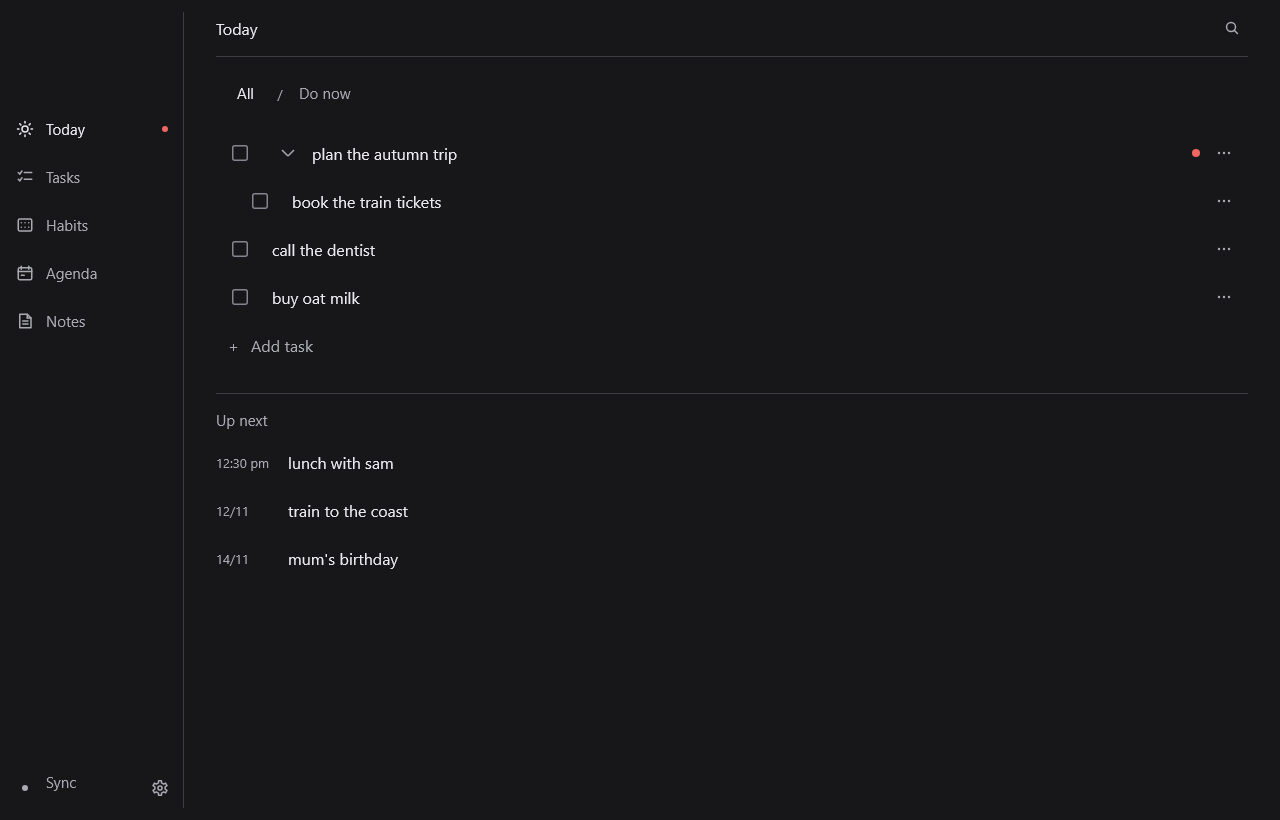
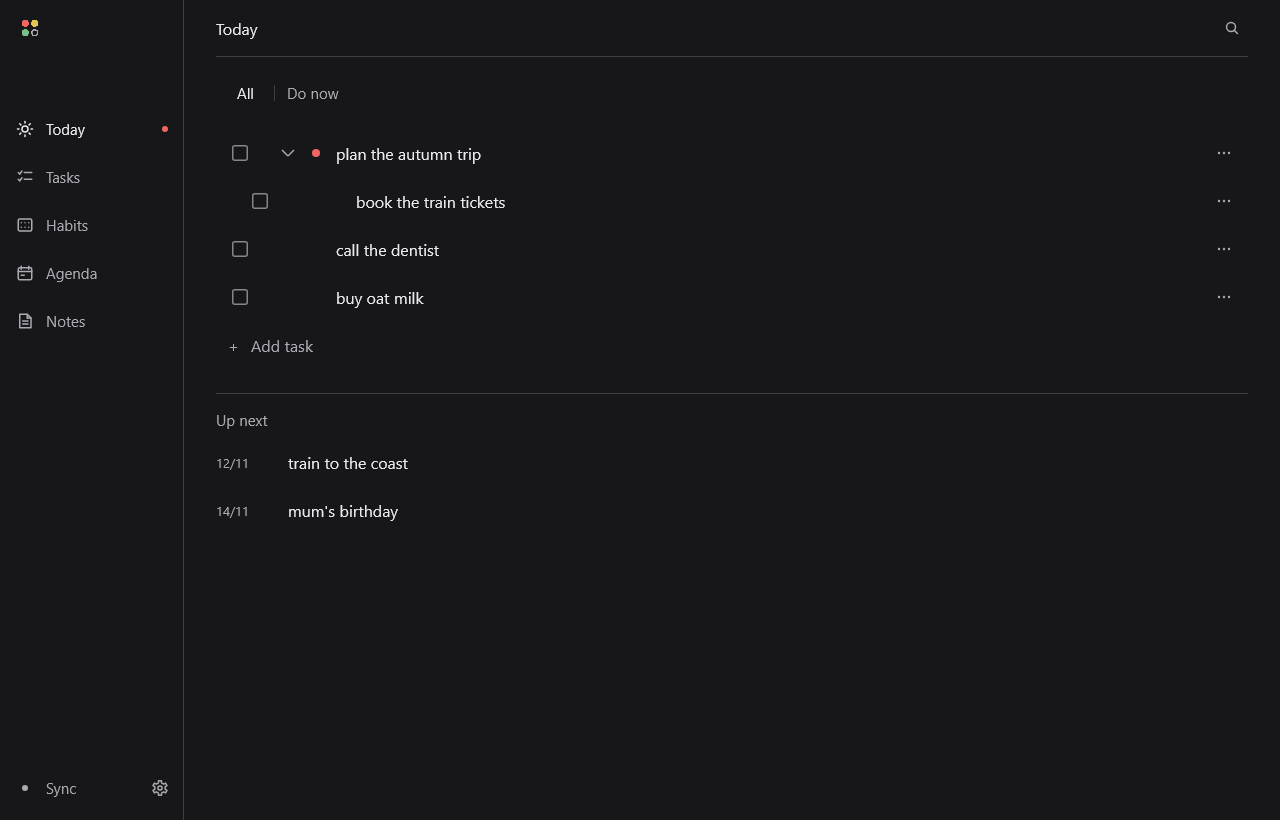
Restore P24 shell details and align sidebar footer controls

diff --git a/android/desktop/src/main/kotlin/dev/fourthbreakfast/planner/desktop/DesktopWorkspace.kt b/android/desktop/src/main/kotlin/dev/fourthbreakfast/planner/desktop/DesktopWorkspace.kt
@@ -1,6 +1,7 @@
 package dev.fourthbreakfast.planner.desktop
 
 import androidx.compose.foundation.Canvas
+import androidx.compose.foundation.Image
 import androidx.compose.foundation.background
 import androidx.compose.foundation.clickable
 import androidx.compose.foundation.layout.Box
@@ -85,10 +86,13 @@ internal fun DesktopWorkspace(
     var panelEnd by remember { mutableStateOf(Float.POSITIVE_INFINITY) }
     var origin by remember { mutableStateOf(0f) }
     Row(Modifier.fillMaxSize().onGloballyPositioned { origin = it.positionInRoot().y }) {
-        BoxWithConstraints(Modifier.width(184.dp).fillMaxHeight()) {
+        BoxWithConstraints(Modifier.width(Desk.sidebarWidth).fillMaxHeight()) {
             val header = 56.dp
             val groupHeight = 240.dp
             val top = navigationGroupTop(header.value, with(density) { (panelEnd - origin).toDp() }.value, groupHeight.value, maxHeight.value).dp
+            Box(Modifier.fillMaxWidth().height(header).padding(start = 16.dp), contentAlignment = Alignment.CenterStart) {
+                Image(remember { appIconPainter() }, contentDescription = "Planner", modifier = Modifier.size(28.dp))
+            }
             Column(Modifier.offset(y = top).fillMaxWidth().padding(horizontal = 16.dp)) {
                 Tab.entries.forEach { tab ->
                     Row(
@@ -126,14 +130,14 @@ internal fun DesktopWorkspace(
                 Box(Modifier.width(18.dp), contentAlignment = Alignment.Center) {
                     Canvas(Modifier.size(6.dp)) { drawCircle(statusColor) }
                 }
-                Text(
-                    "Sync",
-                    Modifier.weight(1f).padding(start = 12.dp).heightIn(min = 32.dp).clickable {
+                Box(
+                    Modifier.weight(1f).heightIn(min = 32.dp).padding(start = 12.dp).clickable {
                         if (sync != null) scope.launch { sync.syncNow() } else state.panel = Panel.Settings
                     },
-                    style = MaterialTheme.typography.bodyMedium,
-                    color = colors.onSurfaceVariant,
-                )
+                    contentAlignment = Alignment.CenterStart,
+                ) {
+                    Text("Sync", style = MaterialTheme.typography.bodyMedium, color = colors.onSurfaceVariant)
+                }
                 Box(
                     Modifier.width(32.dp).height(32.dp).semantics {
                         contentDescription = "Settings"
@@ -143,7 +147,7 @@ internal fun DesktopWorkspace(
                     Canvas(Modifier.size(16.dp)) { cog(colors.onSurfaceVariant) }
                 }
             }
-            Box(Modifier.align(Alignment.CenterEnd).padding(vertical = 12.dp).width(1.dp).fillMaxHeight().background(colors.outlineVariant))
+            Box(Modifier.align(Alignment.CenterEnd).width(1.dp).fillMaxHeight().background(colors.outlineVariant))
         }
         Column(Modifier.weight(1f).fillMaxHeight().padding(horizontal = 16.dp)) {
             Row(Modifier.fillMaxWidth().height(56.dp).padding(horizontal = 16.dp), verticalAlignment = Alignment.CenterVertically) {

diff --git a/android/desktop/src/main/kotlin/dev/fourthbreakfast/planner/desktop/TitleBar.kt b/android/desktop/src/main/kotlin/dev/fourthbreakfast/planner/desktop/TitleBar.kt
@@ -1,7 +1,6 @@
 package dev.fourthbreakfast.planner.desktop
 
 import androidx.compose.foundation.Canvas
-import androidx.compose.foundation.Image
 import androidx.compose.foundation.background
 import androidx.compose.foundation.clickable
 import androidx.compose.foundation.gestures.detectDragGestures
@@ -15,15 +14,14 @@ import androidx.compose.foundation.layout.fillMaxHeight
 import androidx.compose.foundation.layout.fillMaxSize
 import androidx.compose.foundation.layout.fillMaxWidth
 import androidx.compose.foundation.layout.height
-import androidx.compose.foundation.layout.padding
 import androidx.compose.foundation.layout.size
 import androidx.compose.foundation.layout.width
 import androidx.compose.foundation.window.WindowDraggableArea
 import androidx.compose.material3.MaterialTheme
 import androidx.compose.runtime.Composable
-import androidx.compose.runtime.remember
 import androidx.compose.ui.Alignment
 import androidx.compose.ui.Modifier
+import androidx.compose.ui.draw.drawBehind
 import androidx.compose.ui.geometry.Offset
 import androidx.compose.ui.geometry.Size
 import androidx.compose.ui.graphics.Color
@@ -55,17 +53,19 @@ import org.jetbrains.compose.resources.stringResource
 private val closeRed = Color(0xFFC42B1C)
 
 /**
- * The top of the window, drawn by the app: its mark and name at the left, a place to drag the window by (a double click
+ * The top of the window, drawn by the app: a place to drag the window by (a double click
  * maximizes), [extras] such as the settings, and the window's own minimize, maximize and close at the right, as Windows 11
  * lays them.
  */
 @Composable
 fun WindowScope.TitleBar(state: WindowState, frame: NativeFrame, onClose: () -> Unit, extras: @Composable RowScope.() -> Unit = {}) {
     val colors = MaterialTheme.colorScheme
-    val icon = remember { appIconPainter() }
     Row(
         verticalAlignment = Alignment.CenterVertically,
-        modifier = Modifier.fillMaxWidth().height(Desk.titleBar).background(colors.background),
+        modifier = Modifier.fillMaxWidth().height(Desk.titleBar).background(colors.background).drawBehind {
+            val x = Desk.sidebarWidth.toPx() - .5.dp.toPx()
+            drawLine(colors.outlineVariant, Offset(x, 0f), Offset(x, size.height), 1.dp.toPx())
+        },
     ) {
         WindowDraggableArea(
             Modifier
@@ -76,9 +76,7 @@ fun WindowScope.TitleBar(state: WindowState, frame: NativeFrame, onClose: () -> 
                     detectTapGestures(onDoubleTap = { state.toggleMaximized() })
                 },
         ) {
-            Row(verticalAlignment = Alignment.CenterVertically, modifier = Modifier.fillMaxSize().padding(start = Space.gutter)) {
-                Image(icon, contentDescription = null, modifier = Modifier.size(Space.x5))
-            }
+            Box(Modifier.fillMaxSize())
         }
         extras()
         WindowButton(stringResource(Res.string.window_minimize), hoverColor = colors.secondaryContainer, onClick = { state.isMinimized = true }) { ink ->

diff --git a/android/shared/src/commonMain/kotlin/dev/fourthbreakfast/planner/today/TodayWorkspace.kt b/android/shared/src/commonMain/kotlin/dev/fourthbreakfast/planner/today/TodayWorkspace.kt
@@ -25,6 +25,7 @@ import androidx.compose.material3.HorizontalDivider
 import androidx.compose.material3.MaterialTheme
 import androidx.compose.material3.OutlinedTextField
 import androidx.compose.material3.Text
+import androidx.compose.material3.VerticalDivider
 import androidx.compose.runtime.Composable
 import androidx.compose.runtime.DisposableEffect
 import androidx.compose.runtime.LaunchedEffect
@@ -126,7 +127,7 @@ fun TodayWorkspace(
                 androidx.compose.material3.TextButton(onClick = { shortlist = false }, modifier = Modifier.semantics { selected = !shortlist }) {
                     Text("All", style = MaterialTheme.typography.bodyMedium, color = if (!shortlist) colors.onBackground else colors.onSurfaceVariant)
                 }
-                Text(" / ", color = colors.onSurfaceVariant, style = MaterialTheme.typography.bodySmall)
+                VerticalDivider(Modifier.height(16.dp), color = colors.outlineVariant)
                 androidx.compose.material3.TextButton(onClick = { shortlist = true }, modifier = Modifier.semantics { selected = shortlist }) {
                     Text("Do now", style = MaterialTheme.typography.bodyMedium, color = if (shortlist) colors.onBackground else colors.onSurfaceVariant)
                 }
@@ -162,7 +163,10 @@ fun TodayWorkspace(
                         drawLine(ink, b, c, Space.strokeThin.toPx())
                     }
                 } else {
-                    Spacer(Modifier.width(Space.x2))
+                    Spacer(Modifier.width(Space.touch))
+                }
+                Box(Modifier.width(24.dp), contentAlignment = Alignment.CenterStart) {
+                    if (task.priority != Priority.NONE) PriorityDot(task.priority)
                 }
                 Column(
                     Modifier.weight(1f).clickable {
@@ -177,7 +181,6 @@ fun TodayWorkspace(
                         textDecoration = if (task.done) androidx.compose.ui.text.style.TextDecoration.LineThrough else null,
                     )
                 }
-                if (task.priority != Priority.NONE) PriorityDot(task.priority)
                 Box {
                     dev.fourthbreakfast.planner.ui.DrawnIconButton("Task actions", onClick = { menu = true }) { ink ->
                         for (x in listOf(.25f, .5f, .75f)) drawCircle(ink, 1.2.dp.toPx(), Offset(size.width * x, size.height / 2))

diff --git a/android/desktop/src/main/kotlin/dev/fourthbreakfast/planner/desktop/WorkspaceGeometry.kt b/android/desktop/src/main/kotlin/dev/fourthbreakfast/planner/desktop/WorkspaceGeometry.kt
@@ -3,7 +3,8 @@ package dev.fourthbreakfast.planner.desktop
 /** Center the navigation between content dividers while reserving the bottom settings row. */
 internal fun navigationGroupTop(headerBottom: Float, taskPanelBottom: Float, groupHeight: Float, windowHeight: Float): Float {
     val safeBottom = (windowHeight - 72f - groupHeight).coerceAtLeast(0f)
+    val safeTop = headerBottom.coerceIn(0f, safeBottom)
     val visiblePanelBottom = taskPanelBottom.coerceAtMost((windowHeight - 72f).coerceAtLeast(headerBottom))
     val desired = (headerBottom + visiblePanelBottom) / 2f - groupHeight / 2f
-    return desired.coerceIn(0f, safeBottom)
+    return desired.coerceIn(safeTop, safeBottom)
 }

diff --git a/android/desktop/src/test/kotlin/dev/fourthbreakfast/planner/desktop/WorkspaceGeometryTest.kt b/android/desktop/src/test/kotlin/dev/fourthbreakfast/planner/desktop/WorkspaceGeometryTest.kt
@@ -6,6 +6,12 @@ import org.junit.Test
 
 class WorkspaceGeometryTest {
     @Test
+    fun shortTaskDocumentKeepsNavigationBelowTheLogo() {
+        val top = navigationGroupTop(56f, 160f, 240f, 800f)
+        assertTrue(top >= 56f)
+    }
+
+    @Test
     fun navigationCentersBetweenContentDividers() {
         val top = navigationGroupTop(56f, 560f, 240f, 800f)
         assertEquals(308f, top + 120f, 0.01f)

diff --git a/android/desktop/src/main/kotlin/dev/fourthbreakfast/planner/desktop/DesktopParts.kt b/android/desktop/src/main/kotlin/dev/fourthbreakfast/planner/desktop/DesktopParts.kt
@@ -61,6 +61,7 @@ object Desk {
     val textScale = 1f
 
     val titleBar = 40.dp
+    val sidebarWidth = 184.dp
     val row = 36.dp
 
     // every control in a column is a 32dp square with a 16dp drawing, its edge 12dp in from the column's right side

diff --git a/docs/design-system/README.md b/docs/design-system/README.md
@@ -123,7 +123,7 @@ On a short window where the group cannot fit between safe bounds, allow the navi
 
 Use 4, 8, 12, 16, 24 and 32 logical dp. Initial values: desktop content gutter 24–32, phone gutter 16, task indent 20 per level, desktop row minimum 36–40, touch row minimum 48. Let long content wrap and height grow.
 
-Divider rules: one thin sidebar line inset from top/bottom; horizontal toolbar and Up next dividers align with the content gutter and stop before panel edges. No border around each task. No connected grid intersections. Keep structural dividers quieter than task content.
+Divider rules: one thin sidebar line runs continuously from the top of the desktop title bar to the bottom of the window. Horizontal toolbar and Up next dividers remain inset, align with the content gutter and stop before panel edges. No border around each task. No connected grid intersections. Keep structural dividers quieter than task content.
 
 Small selection radius: 4dp proposed. Outer window shape follows platform support. Do not force a square or custom-decorated desktop frame.
 
@@ -232,6 +232,7 @@ Acceptance for a migrated screen:
 | D015 | Approved | Center the sidebar navigation group between the header and Up next horizontal dividers. Sync/settings remain bottom-anchored. |
 | D016 | Approved | Keep one inline Add task action; remove redundant toolbar add action. |
 | D017 | Approved, refined in P24 | Sync/footer and Today/navigation share row geometry. Settings cog and active dot have equal visible right-edge gaps to the sidebar divider, not aligned centers. The wider cog center sits farther left. Preserve full accessible settings hit target independently of the drawing bounds. |
+| D018 | Approved, P24 fidelity correction | Center Sync text, status dot and settings cog on one horizontal axis. Restore the existing four-dot mark in the sidebar header beside the page-header row, without a wordmark. Continue the sidebar separator through the title bar to the window top. Today priority dots precede task text; All/Do now uses a short vertical divider. This supersedes the sidebar line's earlier top/bottom insets. |
 
 New decision template: ID; scenario; status; proposal/options; rationale; affected screens/platforms; preview ID; final decision; implementation links; superseded rules.
 
